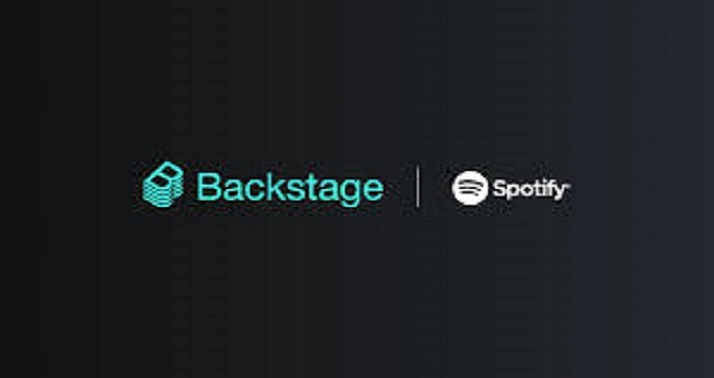
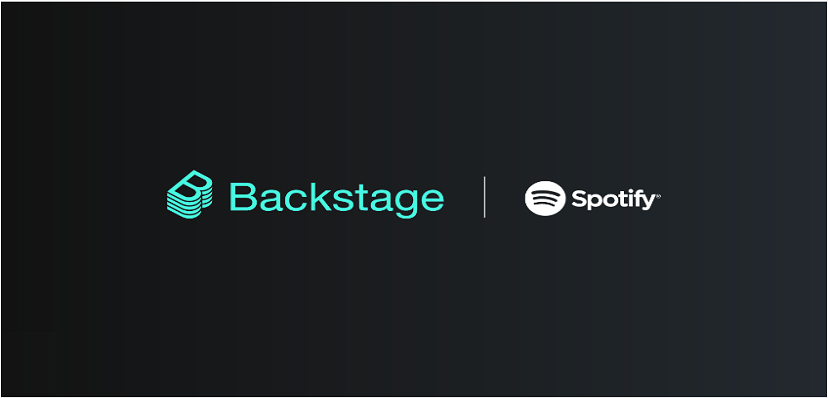
Updated Portfolio Images

diff --git a/src/components/portfolio/Portfolio.jsx b/src/components/portfolio/Portfolio.jsx
@@ -8,11 +8,12 @@ import IMG5 from '../../assets/portfolio5.png'
 import IMG6 from '../../assets/portfolio6.png'
 import IMG7 from '../../assets/portfolio7.png'
 import IMG8 from '../../assets/portfolio8.png'
+import IMG9 from '../../assets/portfolio9.png'
 
 const data = [
   {
     id: 1, 
-    image: IMG1,
+    image: IMG9,
     title: 'Serverless Node AWS Lambda',
     github: 'https://github.com/LucBecker/serverless-node-aws-lambda',
     demo: '',
